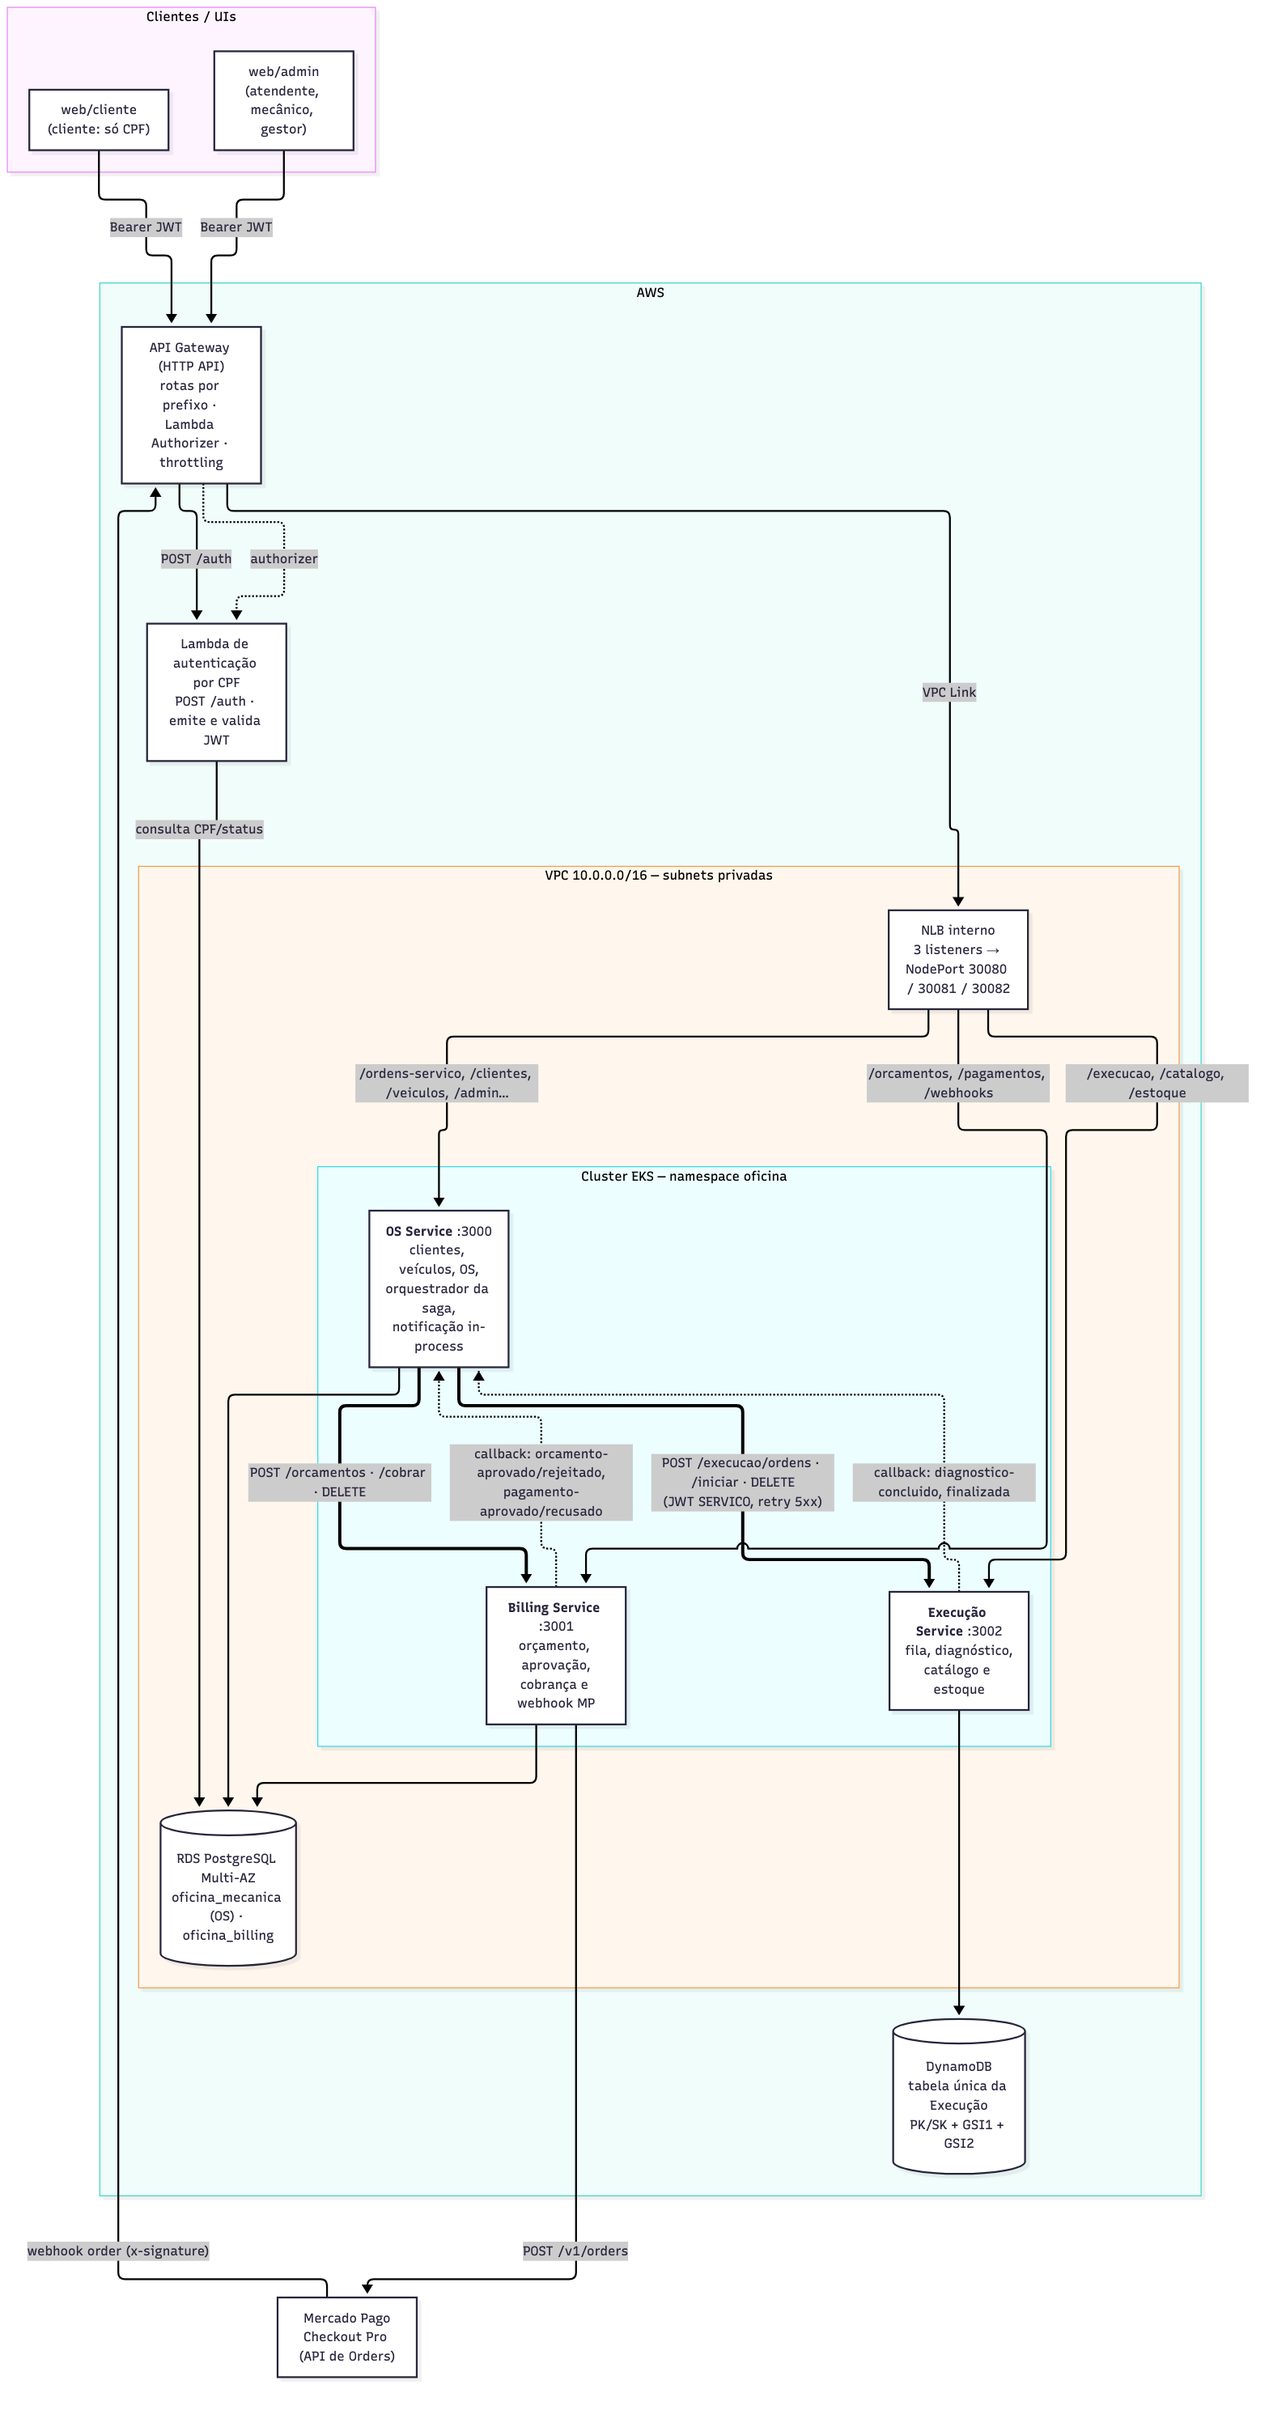
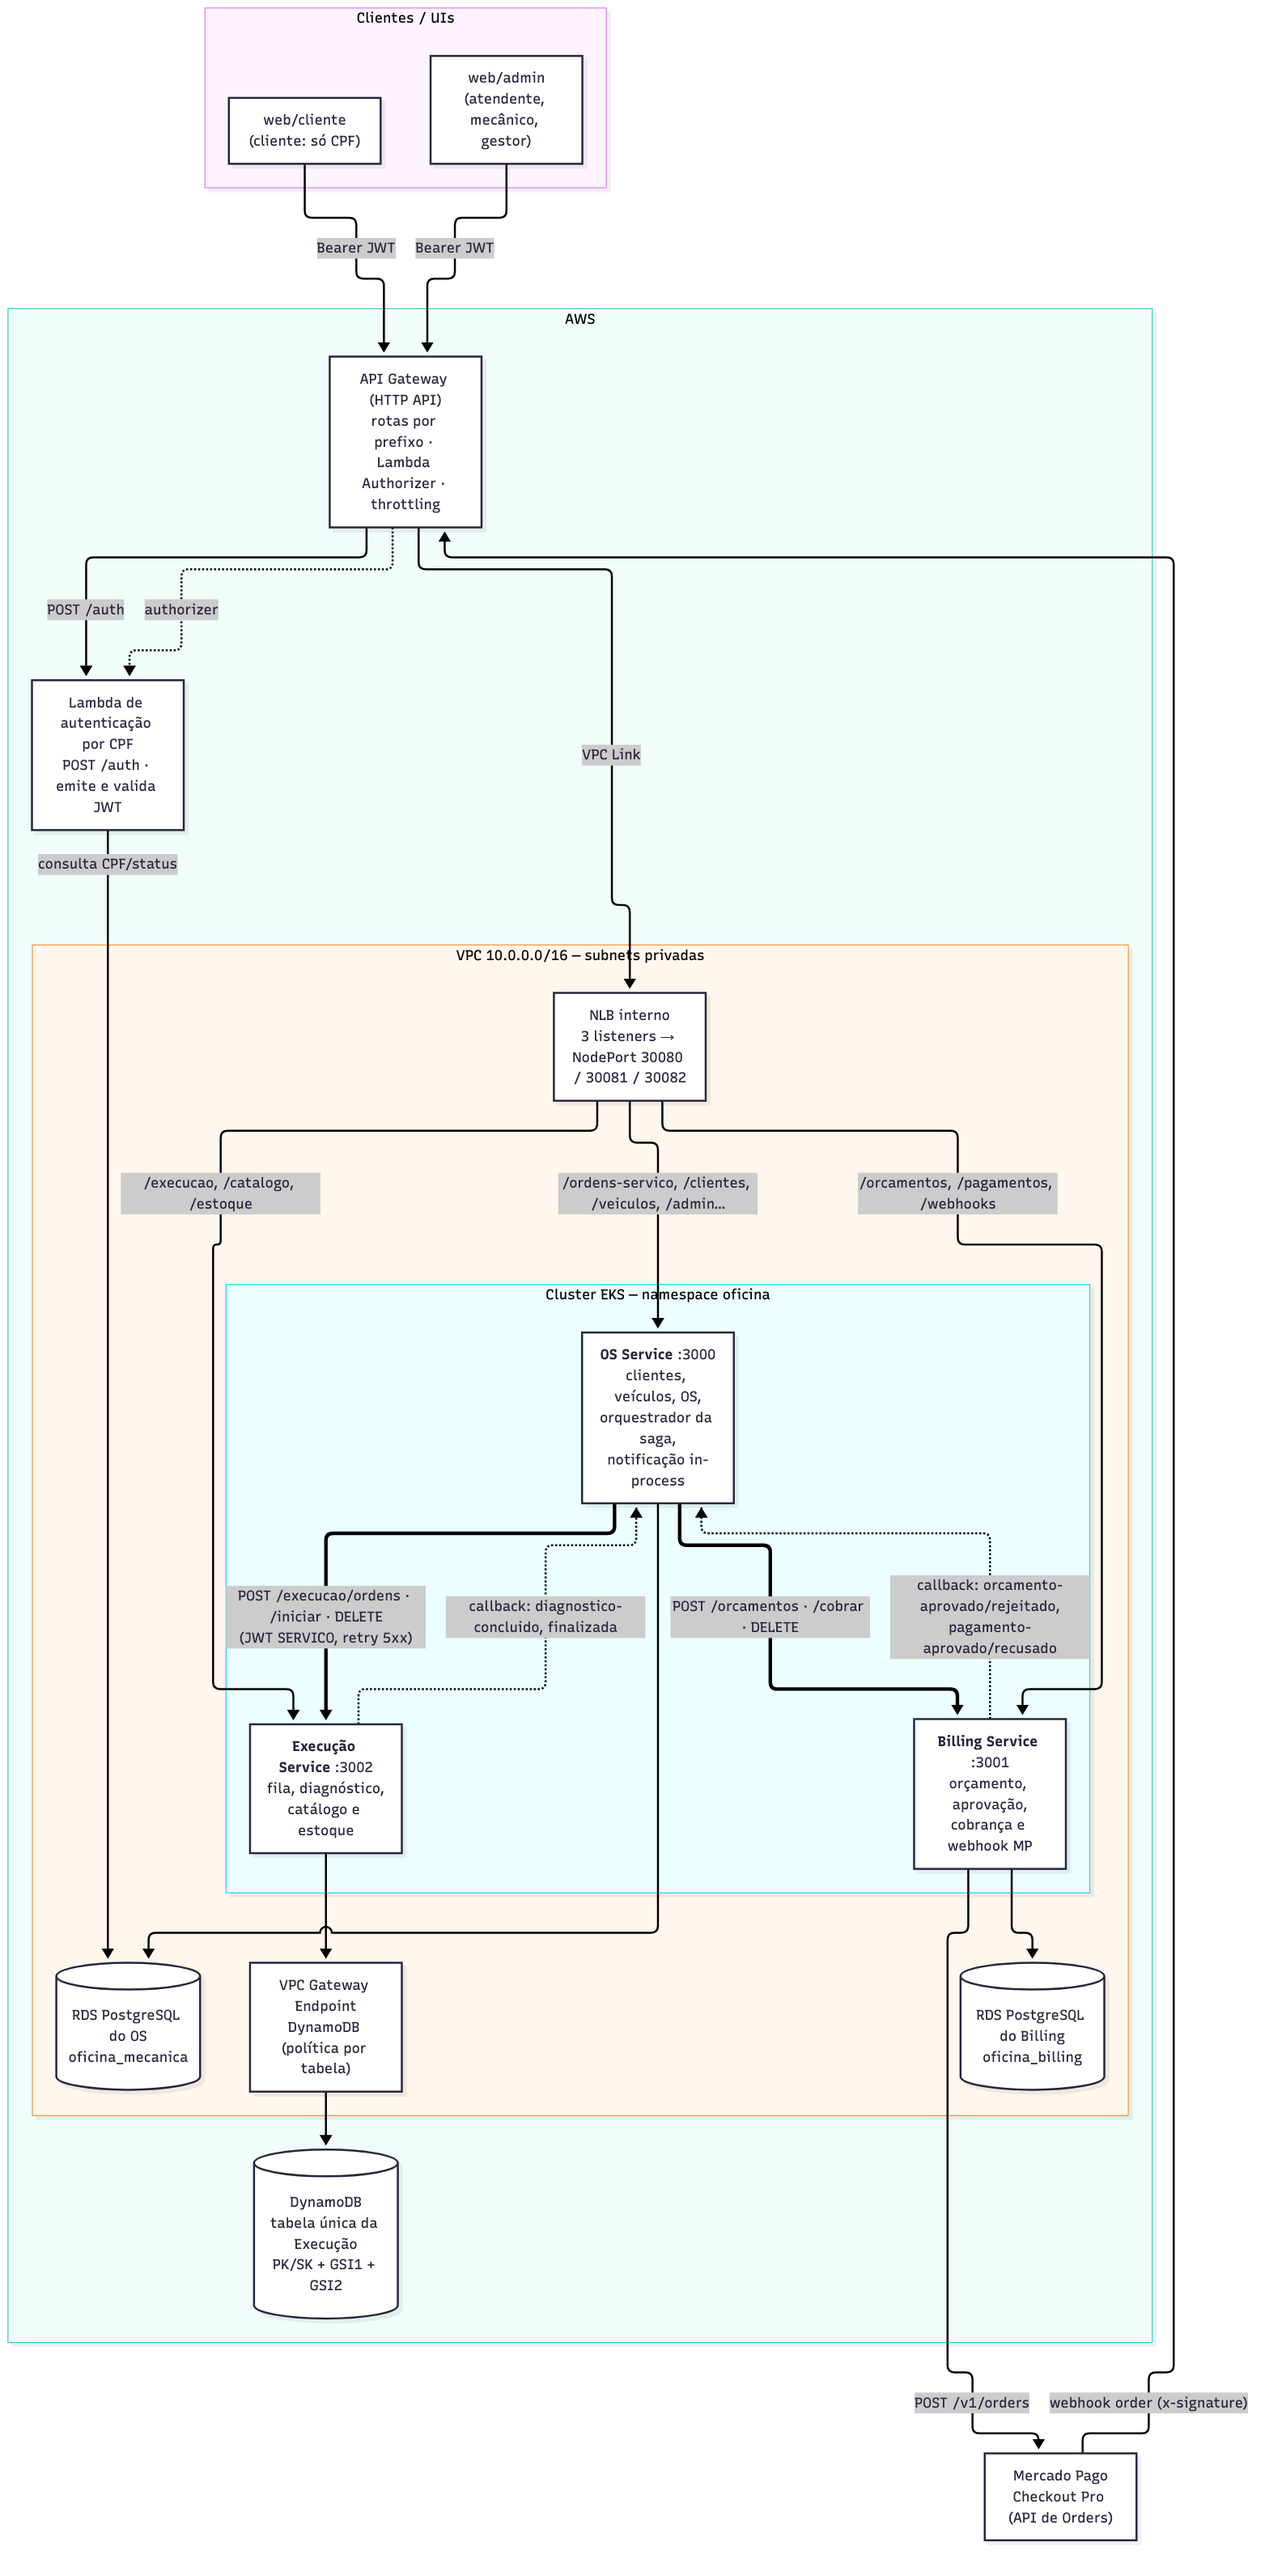
docs(fase4): diagramas com uma instancia RDS por servico e VPC endpoint do DynamoDB (ADR-0014)

diff --git a/docs/arquitetura/arquitetura-fase4.md b/docs/arquitetura/arquitetura-fase4.md
@@ -2,7 +2,7 @@
 
 Desenho da arquitetura final da Fase 4: o monólito virou **três microsserviços**
 (OS, Billing e Execução) que conversam por **HTTP direto com callbacks**
-(RFC-0008), cada um com o **próprio banco** (dois Postgres + DynamoDB), todos
+(RFC-0008), cada um com o **próprio banco** (duas instâncias RDS Postgres + DynamoDB), todos
 atrás do **mesmo API Gateway** e orquestrados por uma **saga** que vive no OS
 Service. Os diagramas estão em [Mermaid](https://mermaid.js.org/) e são
 renderizados diretamente pelo GitHub. A Fase 4 é uma **evolução** da
@@ -55,7 +55,9 @@ flowchart TB
                 EXEC["<b>Execução Service</b> :3002<br/>fila, diagnóstico,<br/>catálogo e estoque"]
             end
 
-            RDS[("RDS PostgreSQL Multi-AZ<br/>oficina_mecanica (OS) · oficina_billing")]
+            RDSOS[("RDS PostgreSQL do OS<br/>oficina_mecanica")]
+            RDSBI[("RDS PostgreSQL do Billing<br/>oficina_billing")]
+            VPCE["VPC Gateway Endpoint<br/>DynamoDB (política por tabela)"]
         end
 
         DYNAMO[("DynamoDB<br/>tabela única da Execução<br/>PK/SK + GSI1 + GSI2")]
@@ -74,10 +76,10 @@ flowchart TB
     EXEC -. "callback: diagnostico-concluido, finalizada" .-> OS
     BILL -. "callback: orcamento-aprovado/rejeitado,<br/>pagamento-aprovado/recusado" .-> OS
 
-    OS --> RDS
-    BILL --> RDS
-    LAMBDA -- "consulta CPF/status" --> RDS
-    EXEC --> DYNAMO
+    OS --> RDSOS
+    BILL --> RDSBI
+    LAMBDA -- "consulta CPF/status" --> RDSOS
+    EXEC --> VPCE --> DYNAMO
     BILL -- "POST /v1/orders" --> MP
     MP -- "webhook order (x-signature)" --> GW
 ```
@@ -90,9 +92,9 @@ Datadog** no cluster recolhe traces, logs e métricas dos três serviços.
 
 | Serviço | Repositório | Banco | O que guarda |
 |---|---|---|---|
-| OS Service | `soat-fiap-oficina-os-service` (este, hub de docs) | Postgres `oficina_mecanica` | clientes, veículos, OS com snapshot dos itens, `saga_os`, `processed_messages`, notificações, usuários |
-| Billing Service | `soat-fiap-oficina-billing-service` | Postgres `oficina_billing` | orçamentos e itens, aprovação/rejeição, cobranças (order do Mercado Pago), eventos de webhook |
-| Execução Service | `soat-fiap-oficina-execucao-service` | DynamoDB (tabela única) | fila de execução, diagnóstico, catálogo de serviços/produtos, reservas e movimentos de estoque |
+| OS Service | `soat-fiap-oficina-os-service` (este, hub de docs) | RDS próprio, Postgres `oficina_mecanica` | clientes, veículos, OS com snapshot dos itens, `saga_os`, `processed_messages`, notificações, usuários |
+| Billing Service | `soat-fiap-oficina-billing-service` | RDS próprio, Postgres `oficina_billing` | orçamentos e itens, aprovação/rejeição, cobranças (order do Mercado Pago), eventos de webhook |
+| Execução Service | `soat-fiap-oficina-execucao-service` | DynamoDB (tabela única, via VPC Endpoint) | fila de execução, diagnóstico, catálogo de serviços/produtos, reservas e movimentos de estoque |
 
 ---
 
@@ -100,10 +102,12 @@ Datadog** no cluster recolhe traces, logs e métricas dos três serviços.
 
 Uma VPC `10.0.0.0/16` em **duas zonas de disponibilidade**, com uma subnet
 pública e uma privada por AZ. Tudo o que executa fica nas **subnets privadas**:
-nodes do EKS, NLB interno, RDS e as ENIs da Lambda. As subnets públicas só têm
+nodes do EKS, NLB interno, as duas instâncias RDS e as ENIs da Lambda. O
+DynamoDB é um serviço regional e não tem interface na VPC; ele é alcançado por
+um **VPC Gateway Endpoint** (gratuito) nas route tables privadas, com política
+restrita à tabela da Execução, sem passar pelo NAT. As subnets públicas só têm
 o **Internet Gateway** e um **NAT Gateway** (um só, na primeira AZ, por custo),
-por onde os nodes saem para ECR, DynamoDB, Secrets Manager, Datadog e Mercado
-Pago. Não há nenhum load balancer público: a entrada é sempre o API Gateway,
+por onde os nodes saem para ECR, Secrets Manager, Datadog e Mercado Pago. Não há nenhum load balancer público: a entrada é sempre o API Gateway,
 que alcança o NLB pelo **VPC Link**.
 
 ```mermaid
@@ -124,16 +128,19 @@ flowchart TB
 
         subgraph PRIV["Subnets privadas 10.0.128.0/20 (AZ a) · 10.0.144.0/20 (AZ b)"]
             NODES["Managed node group EKS<br/>t3.medium · 2 a 4 nodes · espalhados nas 2 AZs<br/>pods: os-service · billing-service · execucao-service · datadog"]
-            RDS[("RDS PostgreSQL Multi-AZ<br/>primário AZ a · standby AZ b<br/>oficina_mecanica · oficina_billing")]
+            RDSOS[("RDS do OS Service<br/>Multi-AZ · oficina_mecanica")]
+            RDSBI[("RDS do Billing<br/>Multi-AZ · oficina_billing")]
         end
+
+        VPCE["VPC Gateway Endpoint · DynamoDB<br/>nas route tables privadas · política só para a tabela oficina-execucao"]
 
         CP["EKS control plane (gerenciado pela AWS)<br/>endpoint público + privado"]
     end
 
+    DYN[("DynamoDB<br/>tabela oficina-execucao")]
     subgraph REG["Serviços regionais (endpoints públicos, via NAT)"]
         ECR["ECR"]
         SM["Secrets Manager · SSM"]
-        DYN[("DynamoDB")]
         CW["CloudWatch"]
     end
     EXT["Datadog (SaaS) · Mercado Pago"]
@@ -142,8 +149,9 @@ flowchart TB
     GW -- "POST /auth · authorizer" --> LAMBDA
     GW -- "VPC Link" --> VPCLINK --> NLB
     NLB -- "TCP → NodePort" --> NODES
-    NODES -- "5432 (SG dos nodes)" --> RDS
-    LAMBDA -- "5432 (SG auth_lambda)" --> RDS
+    NODES -- "5432 (SG dos nodes)" --> RDSOS & RDSBI
+    LAMBDA -- "5432 (SG auth_lambda)" --> RDSOS
+    NODES -- "rota do prefixo do DynamoDB" --> VPCE --> DYN
     CP -. "kubelet / API" .- NODES
     NODES -- "0.0.0.0/0" --> NAT --> IGW
     IGW --> REG
@@ -152,14 +160,15 @@ flowchart TB
 
 Regras de segurança que importam:
 
-- **RDS** aceita 5432 só dos security groups dos nodes e da Lambda (`rds_ingress_sg`), nunca da internet (`publicly_accessible = false`).
+- **RDS**: uma instância por serviço (ADR-0014), cada uma com o próprio security group aceitando 5432 só dos nodes (e da Lambda, no caso do OS), nunca da internet (`publicly_accessible = false`). O segredo de cada serviço só contém o próprio host.
+- **DynamoDB** só é alcançado pelo VPC Gateway Endpoint, cuja política permite apenas a tabela `oficina-execucao` e seus índices; o tráfego nunca sai para a internet.
 - **NLB** é `internal = true`; o target group aponta para os **nodes** (NodePort), por isso não precisa de AWS Load Balancer Controller.
 - **VPC Link** tem SG próprio com saída apenas para o NLB/nodes.
 - A **Lambda** fica na VPC para chegar ao RDS; sai para o Secrets Manager pelo NAT.
 - As chamadas **entre serviços** nunca saem do cluster: `http://billing-service:3001`, `http://execucao-service:3002` (DNS do namespace `oficina`).
 
 Custo: o desenho é o mínimo para alta disponibilidade do banco e do cluster
-(duas AZs, RDS Multi-AZ) com um único NAT Gateway; o cluster fica **desligado**
+(duas AZs, RDS Multi-AZ) com um único NAT Gateway e um endpoint de gateway gratuito; o cluster fica **desligado**
 fora das janelas de demo e é recriado pelo CI do `infra-k8s`.
 
 ---
@@ -390,8 +399,9 @@ flowchart LR
     end
 
     NLB["NLB interno<br/>listener 3000 → TG 30080<br/>listener 3001 → TG 30081<br/>listener 3002 → TG 30082"]
-    RDS[("RDS: oficina_mecanica · oficina_billing")]
-    DYN[("DynamoDB")]
+    RDSOS[("RDS do OS: oficina_mecanica")]
+    RDSBI[("RDS do Billing: oficina_billing")]
+    DYN[("DynamoDB (via VPC Endpoint)")]
 
     CIOS & CIBI & CIEX --> ECR
     CIOS --> DOS & JOS
@@ -401,7 +411,8 @@ flowchart LR
     NLB --> SOS --> DOS
     NLB --> SBI --> DBI
     NLB --> SEX --> DEX
-    DOS & JOS & DBI & JBI --> RDS
+    DOS & JOS --> RDSOS
+    DBI & JBI --> RDSBI
     DEX --> DYN
     DOS -- "DNS interno" --> SBI & SEX
     MS -. métricas .-> DOS & DBI & DEX
@@ -420,4 +431,4 @@ flowchart LR
 | Kit compartilhado e cliente HTTP interno | [ADR-0010](adr/) |
 | Mercado Pago via API de Orders, cobrança após a execução | [ADR-0012](adr/ADR-0012-pagamento-mercado-pago.md) |
 | Gateway único com NLB e um listener por serviço | [ADR-0013](adr/) |
-| Bancos por serviço no mesmo RDS | [US-F4-03](../user-stories/f4-03-bancos-por-servico.md) |
+| Uma instância RDS por serviço e VPC Endpoint para o DynamoDB | [ADR-0014](adr/ADR-0014-instancia-rds-por-servico-e-endpoint-dynamodb.md), [US-F4-03](../user-stories/f4-03-bancos-por-servico.md) |
